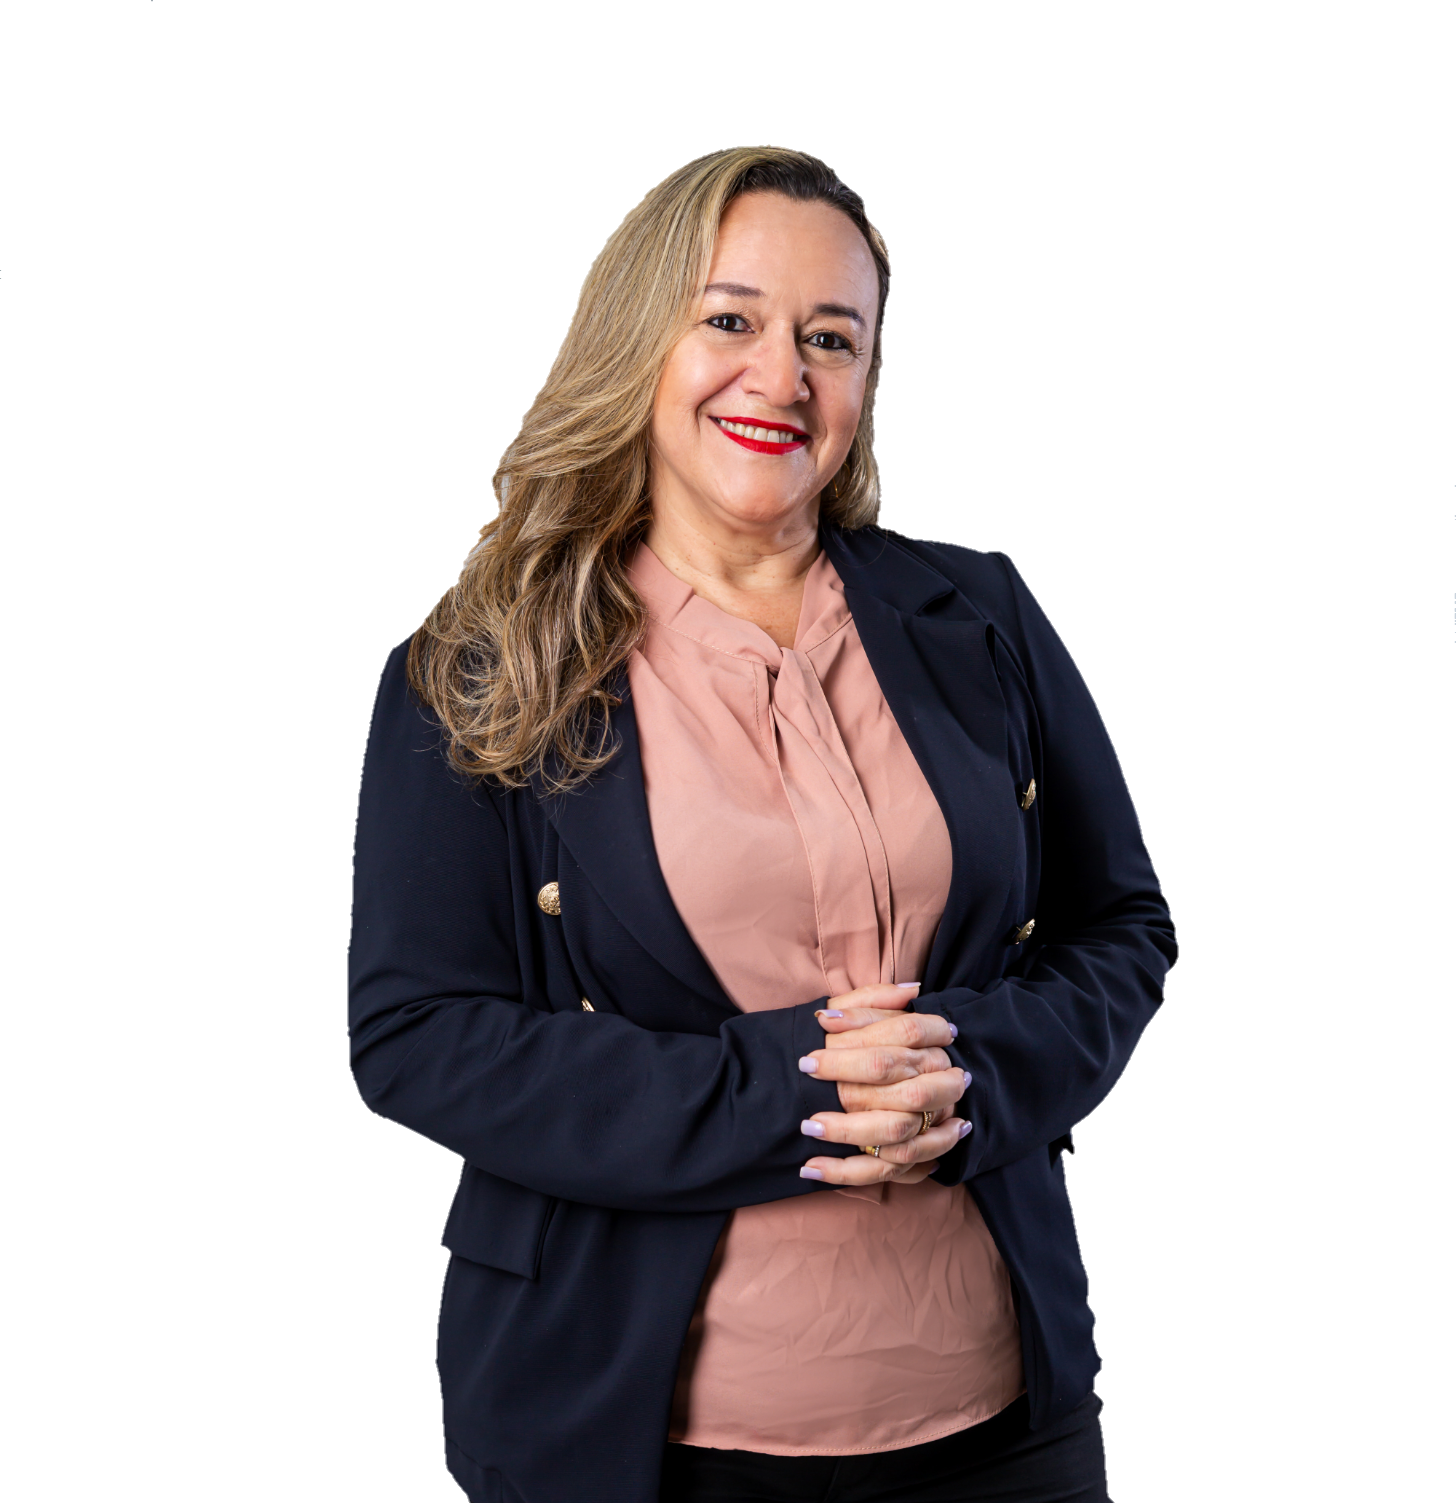
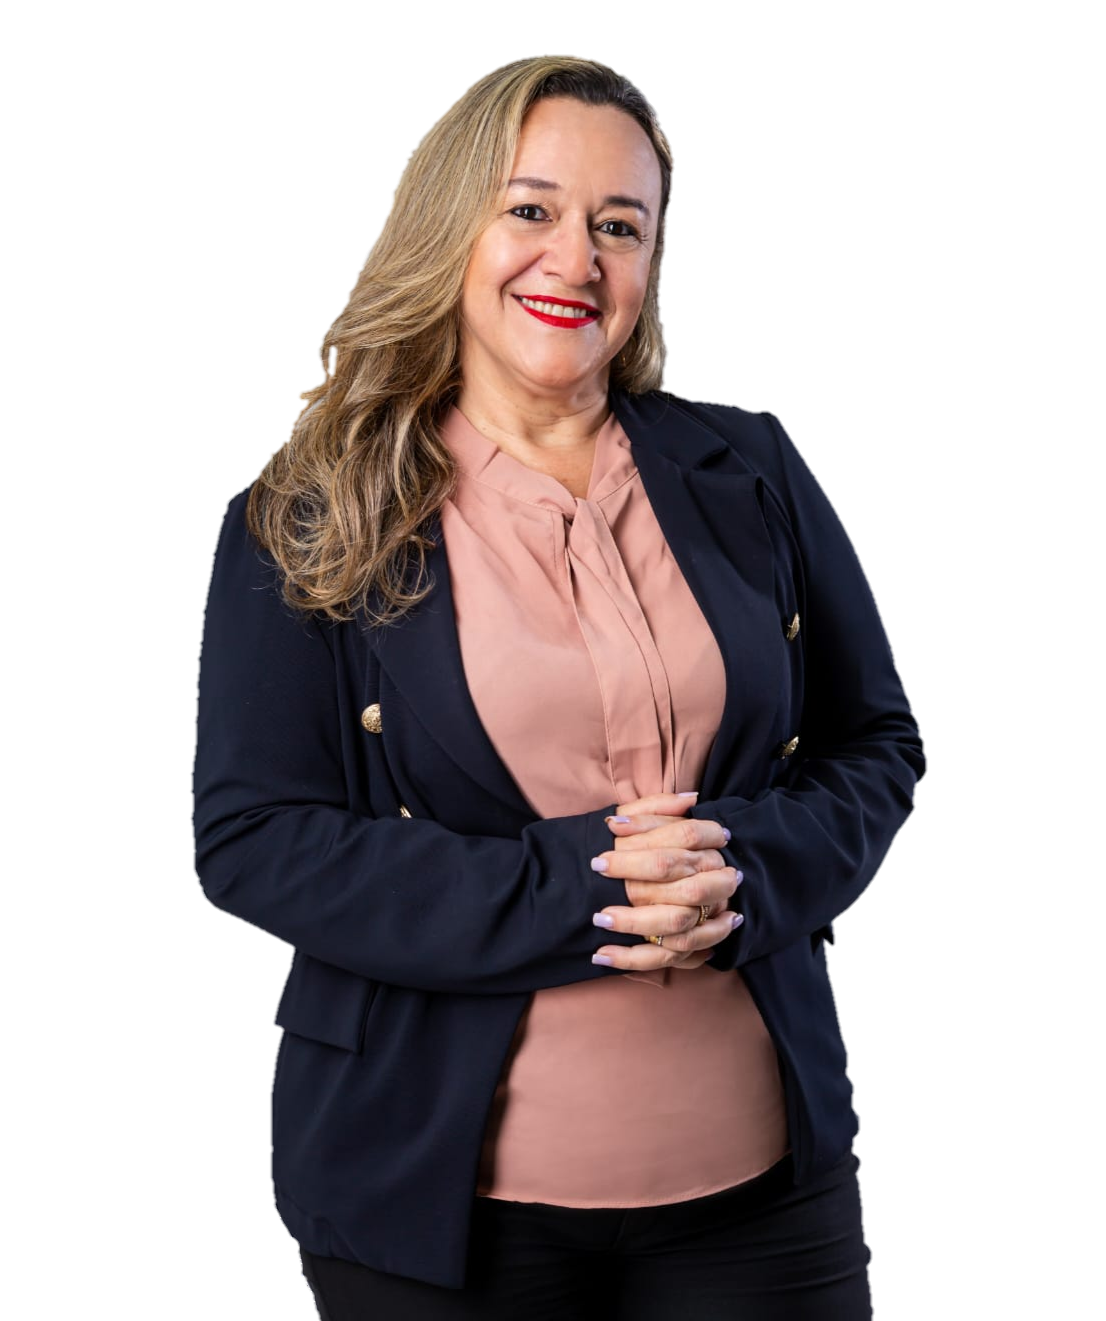
foi

Changed region(s): [[0.1537, 0.031, 0.8608, 1.0]]

diff --git a/styles/hero.css b/styles/hero.css
@@ -18,6 +18,7 @@
         width: 100%;
         height: 100%;
         pointer-events: none;
+        
 
 
         
@@ -25,8 +26,8 @@
             position: absolute;
             left: -13rem;
             bottom: 0;
-            width: 60rem;
-            height: 60rem;
+            width: 50%;
+            height: 95%;
             object-fit: contain;
         }
 
@@ -34,8 +35,8 @@
             position: absolute;
             right: -12rem;
             bottom: 0;
-            width: 60rem;
-            height: 60rem;
+            width: 50%;
+            height: 100%;
             object-fit: contain;
         }
     }
@@ -46,13 +47,13 @@
         height: 60%;
         display: flex;
         align-items: center;
-        gap: 6rem;
+        
         background-color: #050b4b;
         border: 1px solid #daa520;
         transition: all 0.4s;
         border-radius: .8rem;
         overflow: hidden;
-        padding: 2rem;
+        
         justify-content: space-between;
 
         &:hover {
@@ -61,19 +62,21 @@
         
         & img {
             border-radius: 1rem;
-            max-width: 50%;
-            height: 50%;
+            width: clamp(8rem, 18vw, 24rem);
+            height: auto;
+            object-fit: contain;
         }
 
         & .text {
             text-align: center;
-            width: 100%;
+            width: 90%;
             display: flex;
             flex-direction: column;
+            padding: 1rem;
 
             & h1 {
                 color: var(--text-color-primary);
-                font-size: clamp(1.6rem, 4vw, 3rem);
+                font-size: clamp(1.4rem, 2.5vw, 2.8rem);
                 font-weight: 600;
                 color: var(--color-h1);
                 margin-bottom: 5rem;
@@ -81,74 +84,65 @@
             }
 
             & .p {
-                font-size: clamp(1.2rem, 2.8vw, 1.8rem);
+                font-size: clamp(1rem, 2vw, 1.6rem);
                 max-width: 100%;
                 text-align: center;
+                margin-top: -3rem;
             }
         }
     }
 
 
 
-    /* Dispositivos móveis */
-    @media (max-width: 768px) {
+    /* Dispositivos m車veis */
+    @media (max-width: 1036px) {
         & .apre {
             overflow-x: hidden;
-        
             & img:first-child {
                 left: -7rem;
-                width: 32rem;
-                height: 78rem;
-                top: -19rem;
+                width: 30rem;
+                height: 64rem;
+                top: -7rem;
             }
 
             & img:last-child {
                 right: -6rem;
                 width: 30rem;
-                height: 66rem;
-                top: -12.5rem;
+                height: 70rem;
+                top: -12rem;
             }
         }
 
         & .logo {
-            margin-top: 38vh;
+            margin-top: 42vh;
             width: 100%;
-            height: auto;
-            height: 80rem;
+            padding-block: 1rem;
             flex-direction: column;
             justify-content: center;
             align-items: center;
-            gap: .5rem;
-            padding: 1rem 1rem;
+            
             
             & img {
                 
-                width: 22rem;
-                height: 22rem;
+                width: 40%;
+                height: 40%;
                 object-fit: contain;
+                
+                
             }
             
             & .text {
-                text-align: center;
-                width: 100%;
-                display: flex;
-                flex-direction: column;
-                padding-bottom: 1.5rem;
-                
+                    width: 100%;
+                    margin-top: -2rem;
+
                 & h1 {
-                    margin-top: -1rem;
-                    font-size: 2.2rem;
-                    line-height: 1.2;
+                    font-size: clamp(1.8rem, 4.5vw, 2.4rem);
+                    
                 }
                 
                 & .p {
-                    display: flex;
-                    margin: 0 auto;
-                    justify-content: center;
-                    font-size: 1.6rem;
-                    align-items: center;
-                    text-align: center;
-                    width: 100%;
+                    font-size: clamp(1.2rem, 3.5vw, 1.6rem);
+                    margin-top: -4rem;
                     
                 }
             }

diff --git a/styles/sobre.css b/styles/sobre.css
@@ -10,14 +10,16 @@
 }
 
 #sobre h1 {
+    color: var(--bg-color);
     text-align: center;
     margin-bottom: 5rem;
     margin-top: 5rem;
     font-size: 4rem;
-    border-bottom: 1px solid var(--color-h1);
+    border-bottom: 1px solid var(--bg-color);
 }
 
 #sobre h2 {
+    color: var(--bg-color);
     text-align: center;
     margin: 1rem auto;
     font-size: clamp(1.6rem, 4vw, 2rem);

diff --git a/index.html b/index.html
@@ -561,7 +561,9 @@
 
             <p>
                 <img class="icon" src="./assets/icons/phone.svg" alt="">
-                (38) 99178-7552</p>
+                <a href="tel:38991787552">(38) 99178-7552</a>
+            </p>
+
             <p>
                 <img class="icon" src="./assets/icons/email.svg" alt="">
                 contato@ercontroladoriaestrategica.com.br</p>

diff --git a/styles/footer.css b/styles/footer.css
@@ -53,6 +53,14 @@
     gap: 1rem;
 }
 
+a[href^="tel"],
+a[href^="mailto"] {
+  color: inherit;
+  text-decoration: none;
+  -webkit-text-fill-color: inherit;
+}
+
+
 .footer-section ul {
     list-style: none;
     padding: 0;
